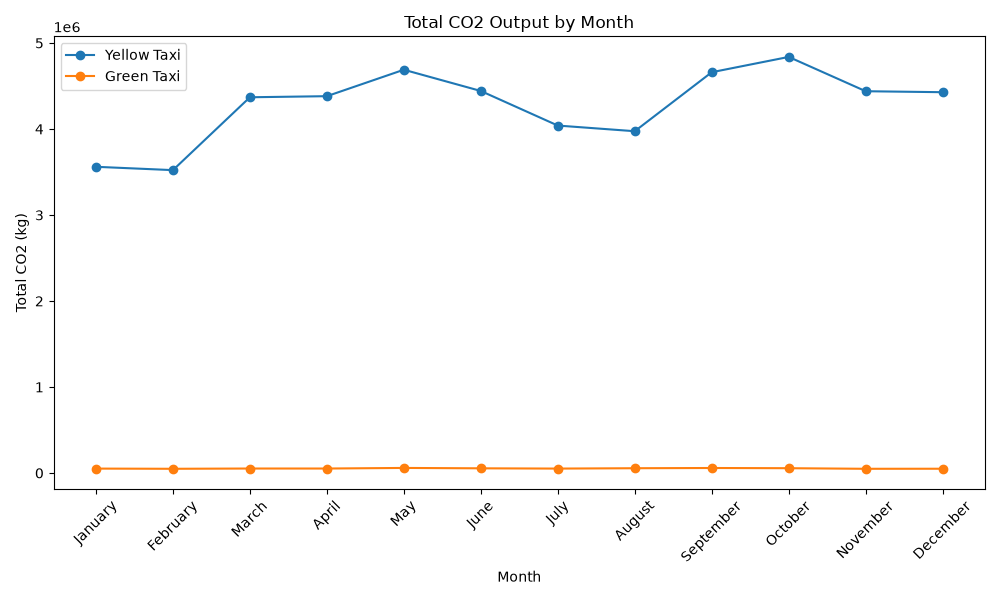
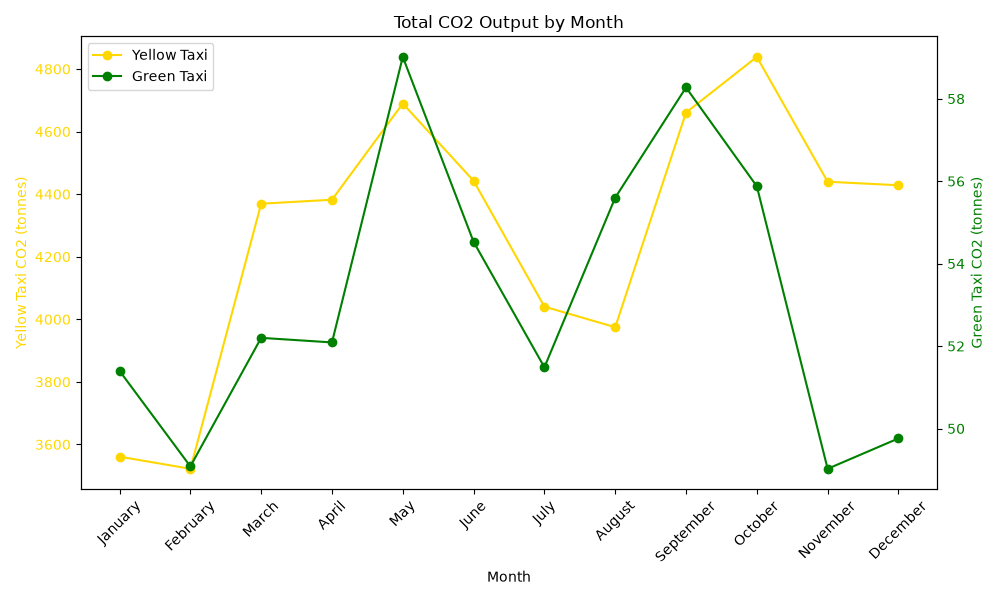
Update CO2 plot with dual axes

diff --git a/analysis.py b/analysis.py
@@ -593,39 +593,60 @@ def analyze_data():
             'September', 'October', 'November', 'December'
         ]
 
-        # Create the line plot.
-        plt.figure(figsize=(10, 6))
+        # Create a line plot with two y-axes because Yellow and Green
+        # taxi CO2 values are very different in size.
+        fig, ax1 = plt.subplots(figsize=(10, 6))
 
-        plt.plot(
-            month_names,
-            yellow_co2,
-            marker='o',
-            label='Yellow Taxi'
-        )
+        # Convert CO2 from kilograms to tonnes for the graph.
+        yellow_co2_tonnes = [value / 1000 for value in yellow_co2]
+        green_co2_tonnes = [value / 1000 for value in green_co2]
 
-        plt.plot(
-            month_names,
-            green_co2,
-            marker='o',
-            label='Green Taxi'
-        )
+        # Plot Yellow Taxi CO2 on the left y-axis.
+        yellow_line, = ax1.plot(
+              month_names,
+              yellow_co2_tonnes,
+              marker='o',
+              color='gold',
+              label='Yellow Taxi'
+            )
 
-        plt.xlabel('Month')
-        plt.ylabel('Total CO2 (kg)')
-        plt.title('Total CO2 Output by Month')
-        plt.legend()
-        plt.xticks(rotation=45)
-        plt.tight_layout()
+        ax1.set_xlabel('Month')
+        ax1.set_ylabel('Yellow Taxi CO2 (tonnes)', color='gold')
+        ax1.tick_params(axis='y', labelcolor='gold')
+
+        # Create a second y-axis for Green Taxi CO2.
+        ax2 = ax1.twinx()
+
+        # Plot Green Taxi CO2 on the right y-axis.
+        green_line, = ax2.plot(
+              month_names,
+              green_co2_tonnes,
+              marker='o',
+              color='green',
+              label='Green Taxi'
+            )
+
+        ax2.set_ylabel('Green Taxi CO2 (tonnes)', color='green')
+        ax2.tick_params(axis='y', labelcolor='green')
+
+        # Add the title and format the x-axis.
+        ax1.set_title('Total CO2 Output by Month')
+        ax1.tick_params(axis='x', rotation=45)
+
+        # Add a legend showing which line represents each taxi type.
+        ax1.legend(
+              [yellow_line, green_line],
+              ['Yellow Taxi', 'Green Taxi'],
+              loc='upper left'
+            )
 
         # Save the plot as a PNG file.
-        plt.savefig('co2_by_month.png')
-        plt.close()
+        fig.tight_layout()
+        fig.savefig('co2_by_month.png')
+        plt.close(fig)
 
         print("Created CO2-by-month plot: co2_by_month.png")
         logger.info("Created CO2-by-month plot: co2_by_month.png")
-
-
-
 
     except Exception as e:
         # Print and log any errors that occur during analysis.
